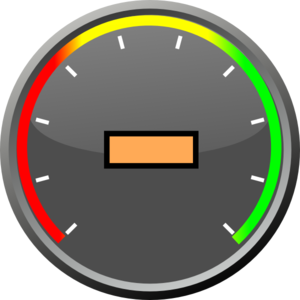
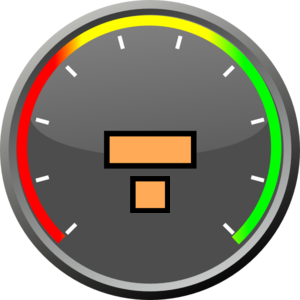
Working RPM and GearDisplay and SpeedDisplay.

Changed region(s): [[0.42, 0.57, 0.57, 0.72], [0.63, 0.45, 0.69, 0.57]]

diff --git a/Ice Cart VR/Assets/Scripts/Car.cs b/Ice Cart VR/Assets/Scripts/Car.cs
@@ -45,6 +45,8 @@ public class Car : MonoBehaviour
     // Cosmetics.
     public GameObject steeringWheel, acceleratorPad, breakPad, clutchPad;
     public GameObject speedomiter;
+    public Text speedDisplay;
+    public Text gearDisplay;
     public GameObject needle;
     public Canvas ui;
 
@@ -58,11 +60,7 @@ public class Car : MonoBehaviour
     public int   gear = 0;                      // current gear.
     public float velocityZ = 0;                 // current speed in z-axis.
     public int   velocityZInt;                  // current speed in z-axis as int.
-    public float RPM = 1000;                    // current RPM of motor.
-    public float test;
-
-    // Declaring an array (ps) to store the four particle systems
-    ParticleSystem[] ps;
+    public float RPM = 0;                       // current RPM of motor. (between 0-1) (sudo 1000-3000 rpm)
 
     public bool includeChildren = true;
 
@@ -71,7 +69,6 @@ public class Car : MonoBehaviour
 
     void Start()
     {
-        //PlayerPrefs.DeleteAll();
         //Init();         // Needed to run test scen.
     }
 
@@ -180,12 +177,13 @@ public class Car : MonoBehaviour
 
     void FixedUpdate()
     {
-        GetInput();
-        LogitechGSDK.LogiUpdate();
-        RotateSteeringWheel(steeringWheel);
-        PressPedals(acceleratorPad, breakPad, clutchPad);
-        CalculateTorque();
-        LogitechGSDK.LogiPlaySpringForce(index,0,100,10*velocityZInt);
+        // Updates all the needed functions.
+        GetInput();                                                         // Takes input.
+        LogitechGSDK.LogiUpdate();                                          // Function needed for LogitechGSDK force feedback.
+        RotateSteeringWheel(steeringWheel);                                 // Cosmetic rotation of the wheel.
+        PressPedals(acceleratorPad, breakPad, clutchPad);                   // Cosmetic pushing of the pedals.
+        CalculateVisualComponents();                                                  // Cosmetic calculation of RPM and speed.
+        LogitechGSDK.LogiPlaySpringForce(index,0,100,10*velocityZInt);      // Forcefeedback to center the wheel, depending on speed.
 
         // Does something for every wheel collider in the car
         foreach (WheelCollider wheel in wheels)
@@ -264,7 +262,7 @@ public class Car : MonoBehaviour
                     wheel.forwardFriction = ff;
                     wheel.sidewaysFriction = sf;
 
-                    slowDownForce = 1000.0f     * wheelMod.resistanceMod;
+                    slowDownForce = 100.0f      * wheelMod.resistanceMod;
                 }
 
                 // Apply natural slowdown
@@ -336,30 +334,52 @@ public class Car : MonoBehaviour
         wheel.steerAngle = steeringAngle;
     }
 
-    void CalculateTorque()
+    void CalculateVisualComponents()
     {
+        // First loop.
         if (speedomiter == null)
         {
             speedomiter = GameObject.FindWithTag("Speedomiter");
+            speedDisplay = GameObject.Find("SpeedDisplay").GetComponent<Text>();
+            gearDisplay = GameObject.Find("GearDisplay").GetComponent<Text>();
             needle = GameObject.FindWithTag("SpeedNeedle");
         }
 
-        // The velocity in positive z direction of the car
+        // The velocity in positive z direction of the car.
         velocityZ = transform.InverseTransformDirection(rigidbody.velocity).z;
-        velocityZInt = (int)velocityZ;
-        if (velocityZ < 0.1)
-        {
-            velocityZ = 0;
-        }
+        // Velocity is always positive.
+        if (velocityZ < 0)
+            velocityZ = -velocityZ;
+        // Transform to int to display on speedomiter. also makes the number somewhat more realistic.
         int velocityAsInt = (int)((velocityZ * 3) * 3.6);
+        // Transform to string to be displayed.
         string velocityAsString = velocityAsInt.ToString();
-        speedomiter.GetComponentInChildren<Text>().text = velocityAsString;
+        speedDisplay.text = velocityAsString;
 
-        // funkar inte! BEHÖVER HJÄLP! 
-        test = (gearDistance / ((gearDistance - velocityZ) * gear)) -1;
-        RPM = 215 - 295 * (gearDistance / ((gearDistance - velocityZ)*gear));
-        needle.transform.localRotation = Quaternion.Euler(0, 0, RPM);
+        // GearDisplay
+        if (gear == -1)
+            gearDisplay.text = "R";
+        else if (gear == 0)
+            gearDisplay.text = "N";
+        else
+            gearDisplay.text = gear.ToString();
 
+        // RPM calculations.
+        if (gear == 1)
+            RPM = (velocityZ / (gearDistance / 2));                     // Gear 1 is half gearDistance.
+        else if (gear == 2)
+            RPM = (velocityZ - (gearDistance / 2)) / (gearDistance);    // Gear 2 have to remove first gearDistance.
+        else
+            RPM = (velocityZ - (gearDistance / 2) - (gearDistance * (gear - 2))) / gearDistance; // All other gears removes first and all gear before.
+        
+        // if the gear in wrong red shift.
+        if (RPM < 0)
+            RPM = 0;
+
+        float degree = 170 - 210 * RPM;
+        if (degree < -80)
+            degree = -80;
+        needle.transform.localEulerAngles = new Vector3(0, 0, degree);
     }
 
     //Make the car move according to the input
